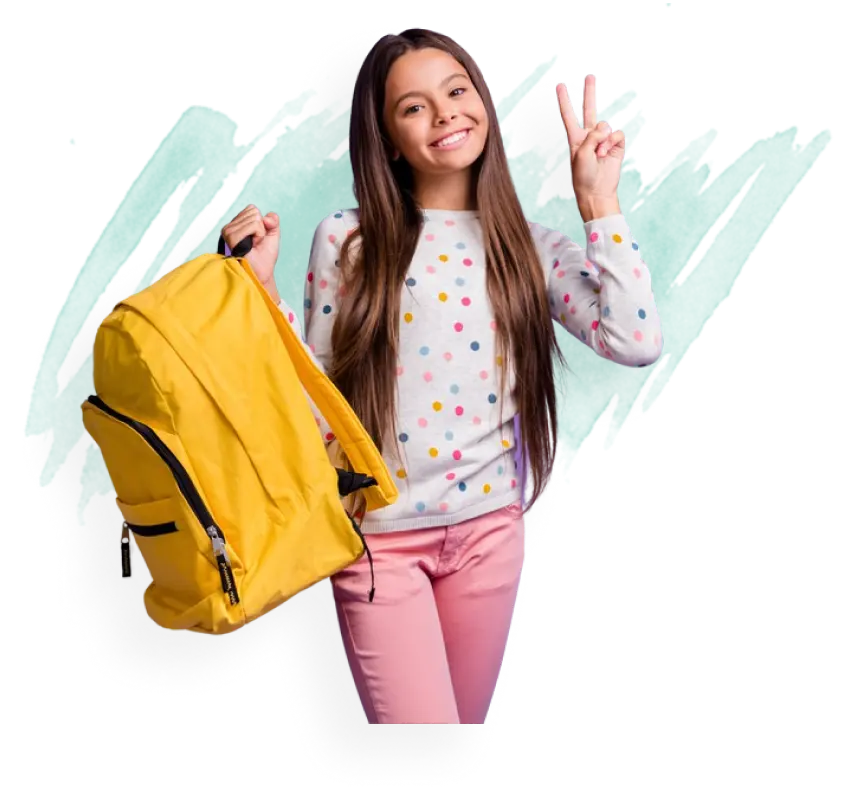
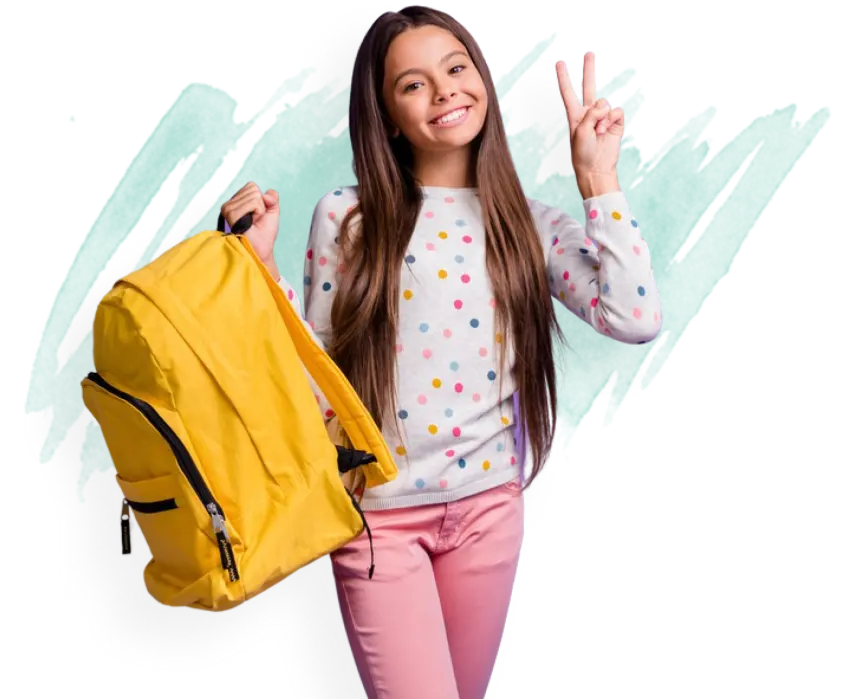
general media queries are finished

diff --git a/src/components/general/general.scss b/src/components/general/general.scss
@@ -4,17 +4,59 @@
 
 .general {
   background: $space-grey;
-  padding: 70px 0px;
   &__wrapper {
     @include flex(column, wrap, flex-start, center);
+    @media only screen and (min-width: 768px) {
+      @include flex(column, wrap, flex-start, center);
+    }
+    @media only screen and (min-width: 1200px) {
+      @include wrapper(1149px, auto);
+    }
   }
   &__content {
     width: 100%;
+    padding: 70px 0px;
     @include flex(column, wrap, flex-start, center);
+    @media only screen and (min-width: 768px) {
+      padding: 70px 0px 140px;
+      @include flex(column, wrap, flex-start, flex-start);
+      background: url('../general/img/general__discount.webp') no-repeat 180px
+        85% / 229px;
+      width: 640px;
+    }
+    @media only screen and (min-width: 992px) {
+      padding: 30px 0px 110px;
+      width: 880px;
+      background: url('../general/img/general__discount.webp') no-repeat 180px
+          90% / 179px,
+        url('../general/img/general__happy-girl.webp') no-repeat 100% 100% /
+          520px;
+    }
+    @media only screen and (min-width: 1200px) {
+      padding: 90px 0px 130px;
+      width: 100%;
+      background: url('../general/img/general__discount.webp') no-repeat 180px
+          91% / 229px,
+        url('../general/img/general__happy-girl.webp') no-repeat 100% 100% /
+          680px;
+    }
+  }
+  &__text {
+    width: 100%;
+    @include flex(column, wrap, flex-start, center);
+    @media only screen and (min-width: 576px) {
+      width: 360px;
+    }
+    @media only screen and (min-width: 768px) {
+      @include flex(column, wrap, flex-start, flex-start);
+    }
   }
   &__slogan {
     @include sloganStyle();
     margin-top: 0px;
+    @media only screen and (min-width: 768px) {
+      text-align: left;
+    }
   }
   &__headline {
     width: auto;
@@ -33,11 +75,25 @@
       line-height: 55px;
       color: rgba(#fff, 0.4);
       text-transform: capitalize;
+      @media only screen and (min-width: 992px) {
+        font-size: 61px;
+        line-height: 79px;
+      }
+    }
+    @media only screen and (min-width: 992px) {
+      font-size: 61px;
+      line-height: 79px;
+    }
+    @media only screen and (min-width: 768px) {
+      text-align: left;
     }
   }
   &__paragraph {
     @include paragraphStyle();
     color: rgba(#fff, 0.7);
+    @media only screen and (min-width: 768px) {
+      text-align: left;
+    }
   }
   &__join-shop-link {
     @include linkStyle();
@@ -63,4 +119,6 @@
 @media only screen and (min-width: 1400px) {
 }
 
-// * {@include outline()}
+* {
+  // @include outline();
+}
